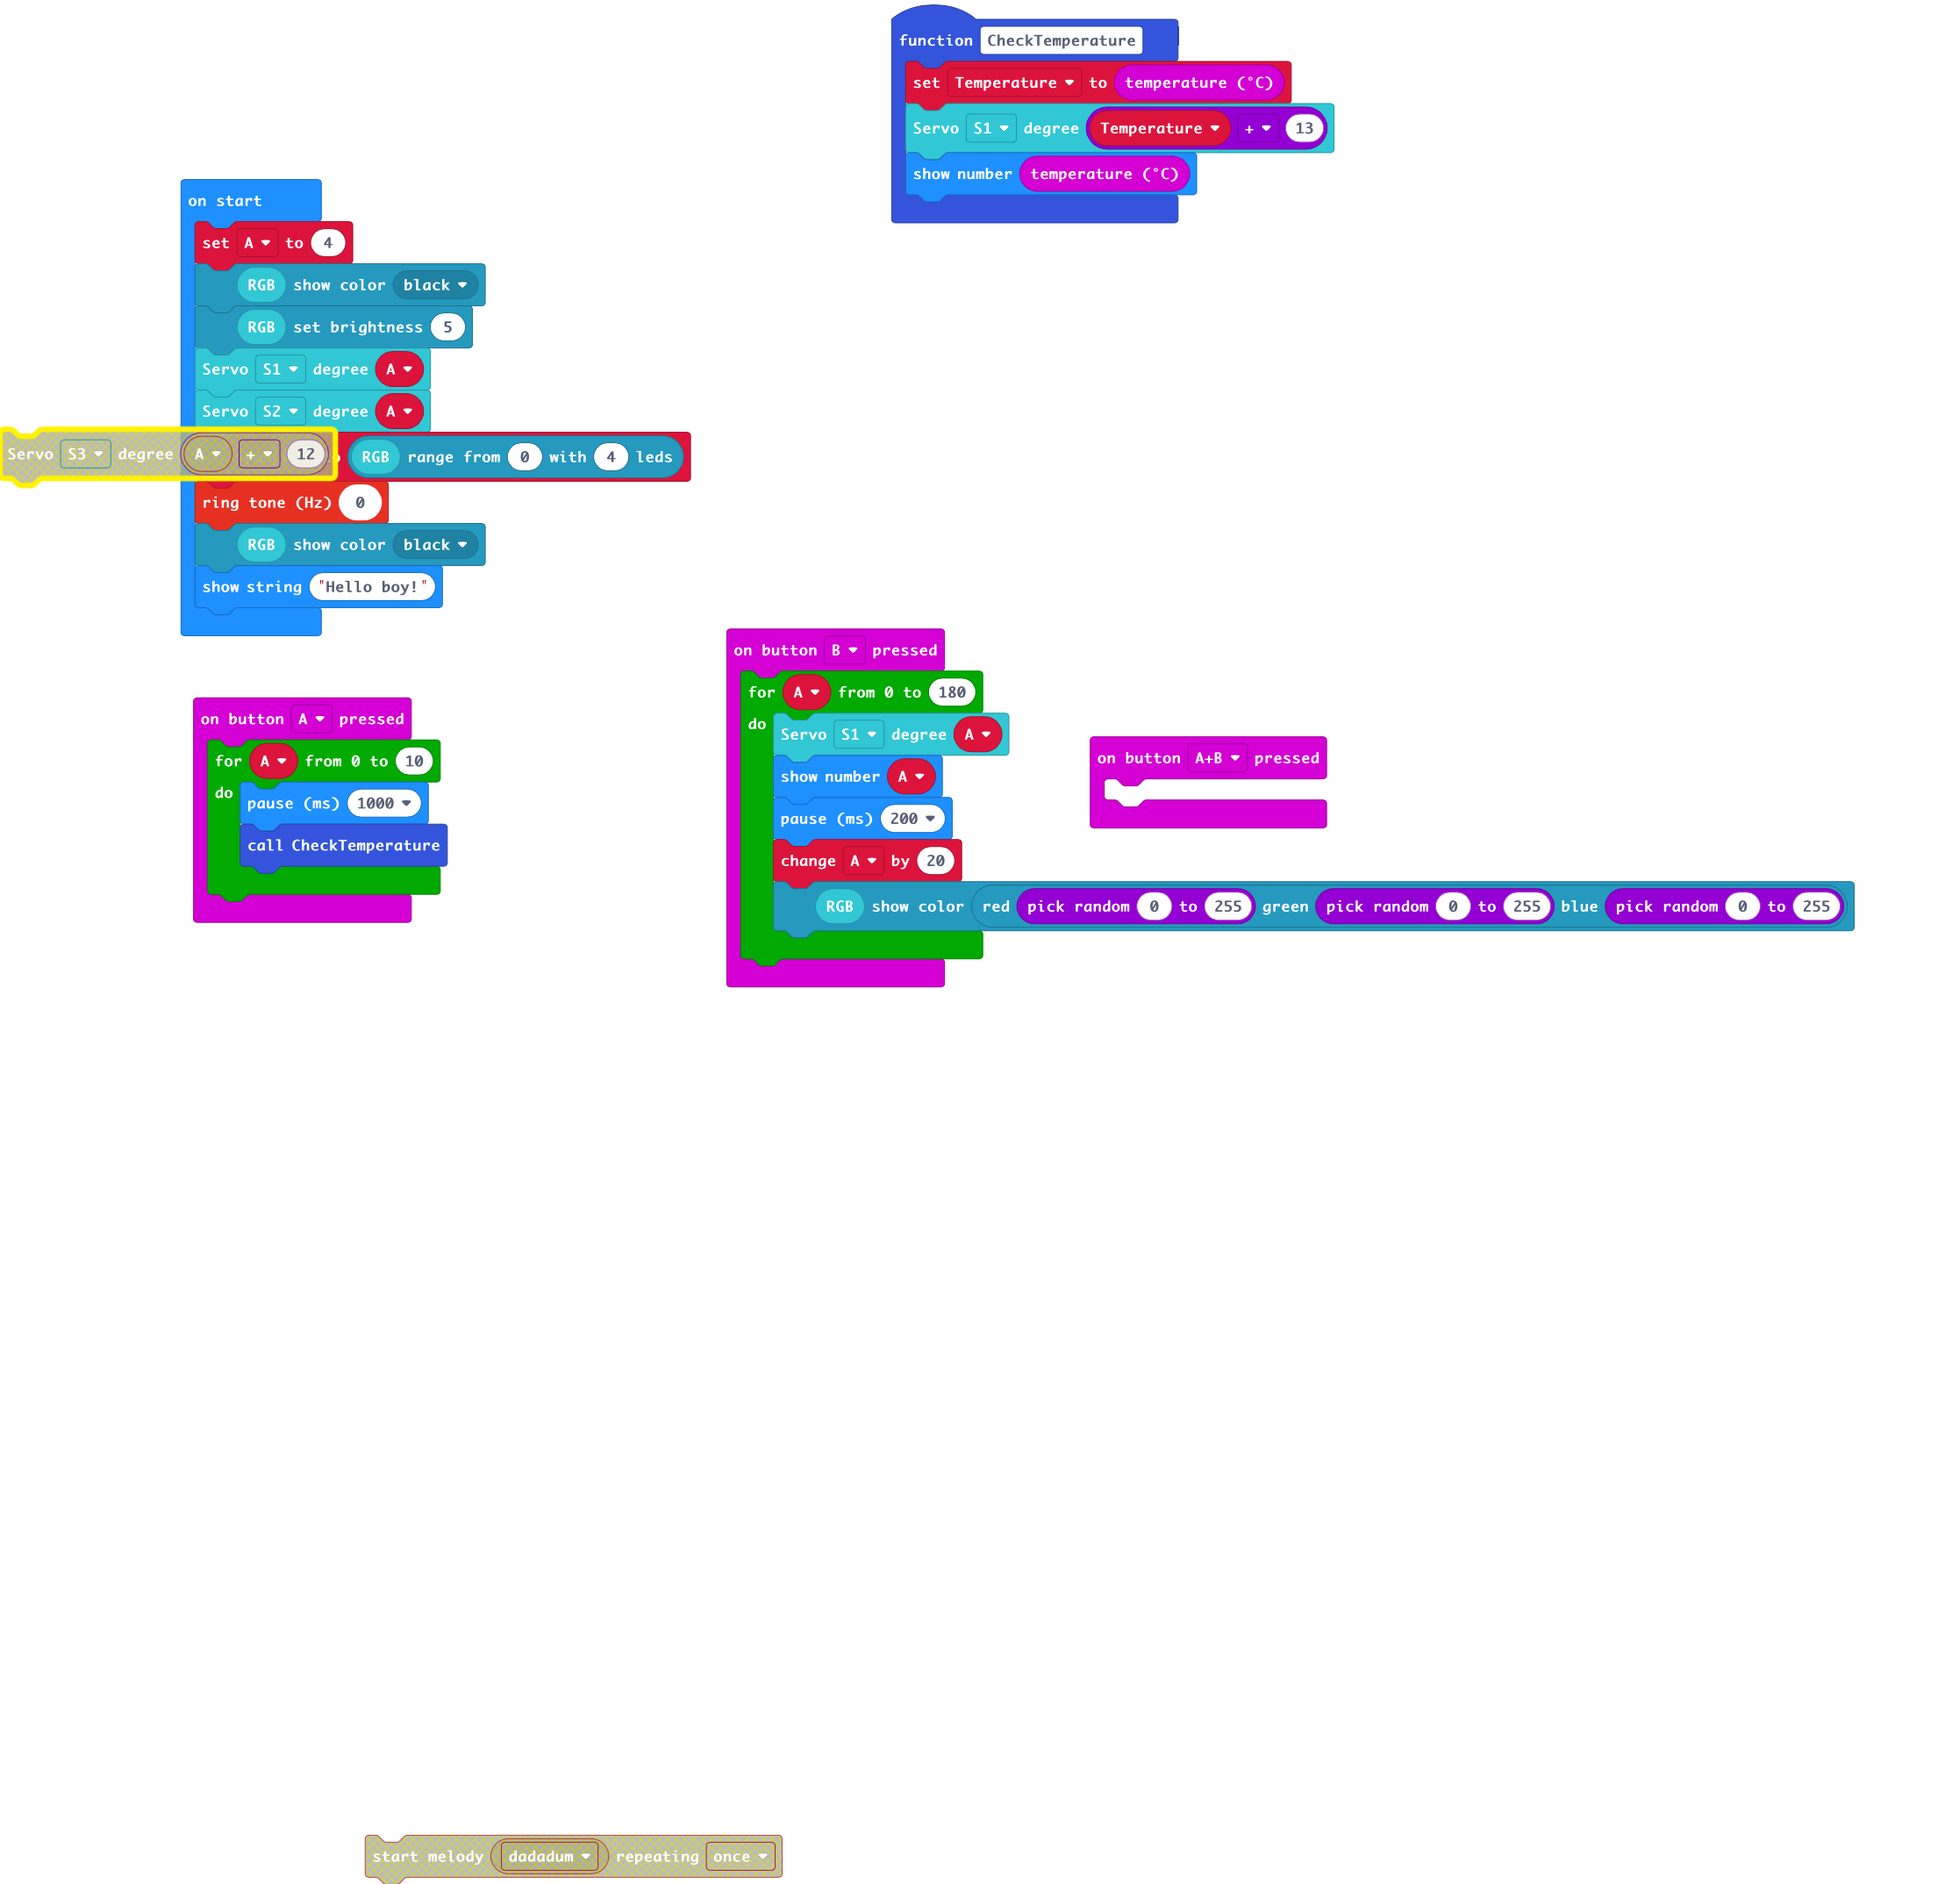
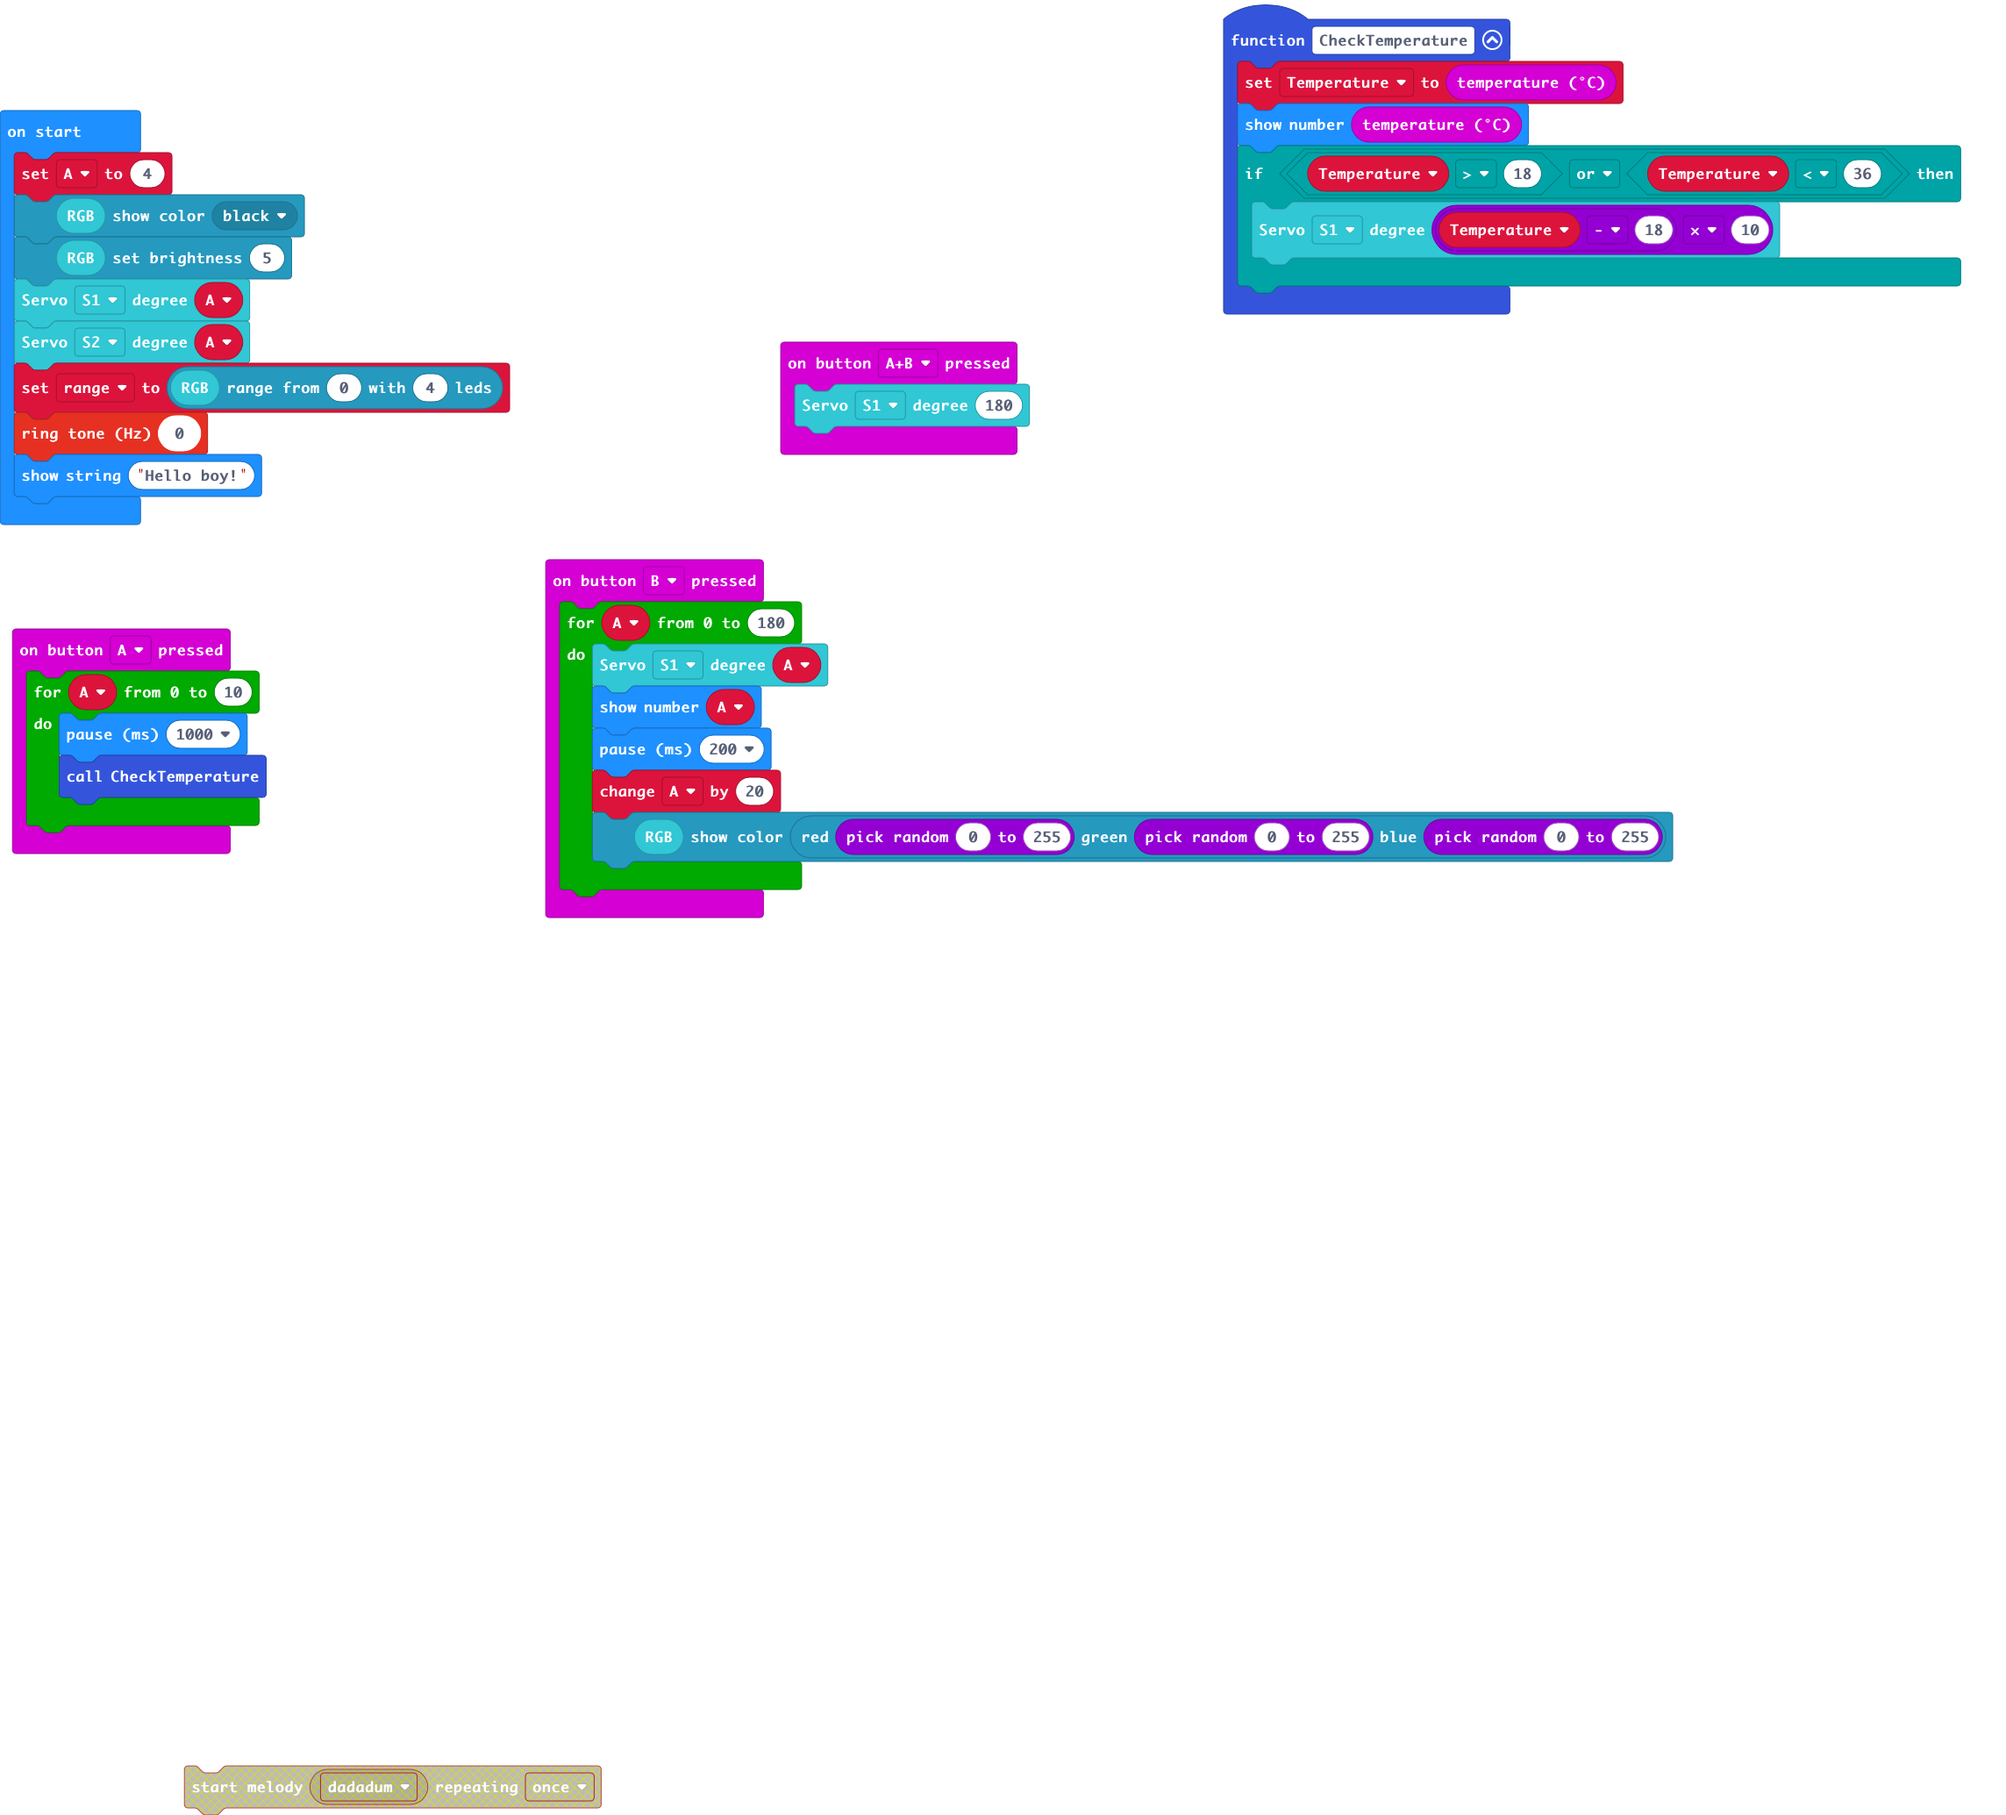
Update pxt.json, main.blocks, main.ts

Changed region(s): [[0.0, 0.0619, 0.9648, 0.5259], [0.4357, 0.0, 0.9959, 0.1856], [0.0934, 0.9589, 0.4046, 1.0]]

diff --git a/main.ts b/main.ts
@@ -6,11 +6,13 @@ input.onButtonPressed(Button.A, function () {
 })
 function CheckTemperature () {
     Temperature = input.temperature()
-    robotbit.Servo(robotbit.Servos.S1, Temperature + 13)
     basic.showNumber(input.temperature())
+    if (Temperature > 18 || Temperature < 36) {
+        robotbit.Servo(robotbit.Servos.S1, (Temperature - 18) * 10)
+    }
 }
 input.onButtonPressed(Button.AB, function () {
-	
+    robotbit.Servo(robotbit.Servos.S1, 180)
 })
 input.onButtonPressed(Button.B, function () {
     for (let A = 0; A <= 180; A++) {
@@ -29,5 +31,4 @@ robotbit.Servo(robotbit.Servos.S1, A)
 robotbit.Servo(robotbit.Servos.S2, A)
 let range = robotbit.rgb().range(0, 4)
 music.ringTone(0)
-robotbit.rgb().showColor(neopixel.colors(NeoPixelColors.Black))
 basic.showString("Hello boy!")
